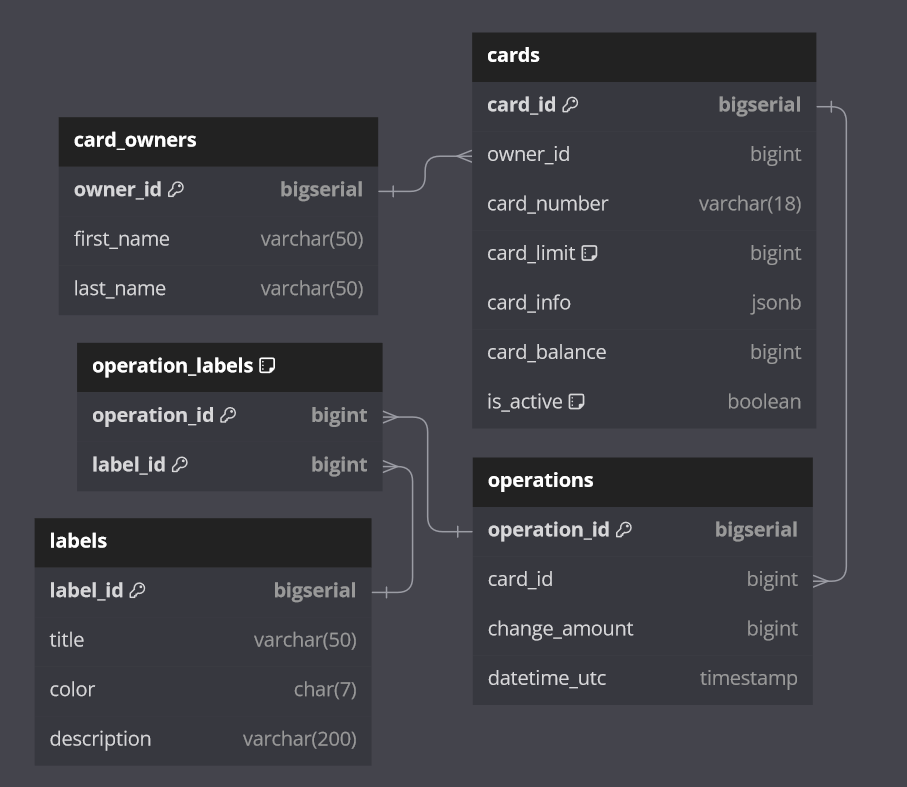
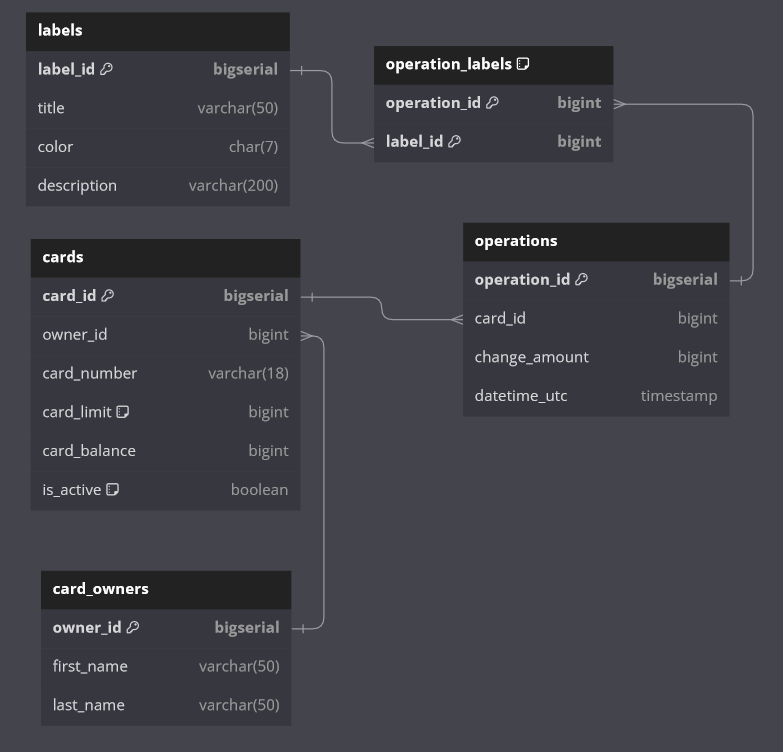
Fix db scheme and sql scripts. Update readme.

diff --git a/README.md b/README.md
@@ -2,9 +2,8 @@
 
 Допущения:
 - Информация об изображениях не должна храниться в БД. сервис верификации не имеет доступа к бд и путь к к изображению передается через кафка.
-- Card_info(Как в основной, так и в дополнительных задачах) использует JSONB ввиду того, что в нём хранится информация без строгого описания полей, как единая атомарную сущность, вся работа с которой происходит вне БД. При формализации требований по структуре данных внутри JSONB - можно будет выделить её в отдельную таблицу.
 - Логи должны быть сохранены, поэтому для упрощения жизни логов использую одну таблицу для всех карточек. Как активных, так и заблокированных.
-- Управление временным штампом отдано БД.
+- Управление временным штампом логов отдано БД. Single source of truth, так сказать.
 
 В папку [db](db) добавлены файлы с описанием схемы БД, скриптами для её создания и CRUD операциями.
 
@@ -31,6 +30,7 @@
 
 Ради уменьшения размера репо убрал файл с весами и закомментил строку в [Dockerfile-verify](docker%2FDockerfile-verify).
 Теперь после запуска сервиса при первом запросе он скачает веса модели, что займет определенное время(600мб как-никак).
+Либо можно докинуть файл. Он есть в ветке week6_shift_620.(тогда строку стоит раскомментить).
 
 ## Week6. SHIFT-620. Dockerfile для своего проекта.
 Созданы Dockerfile для каждого сервиса.
